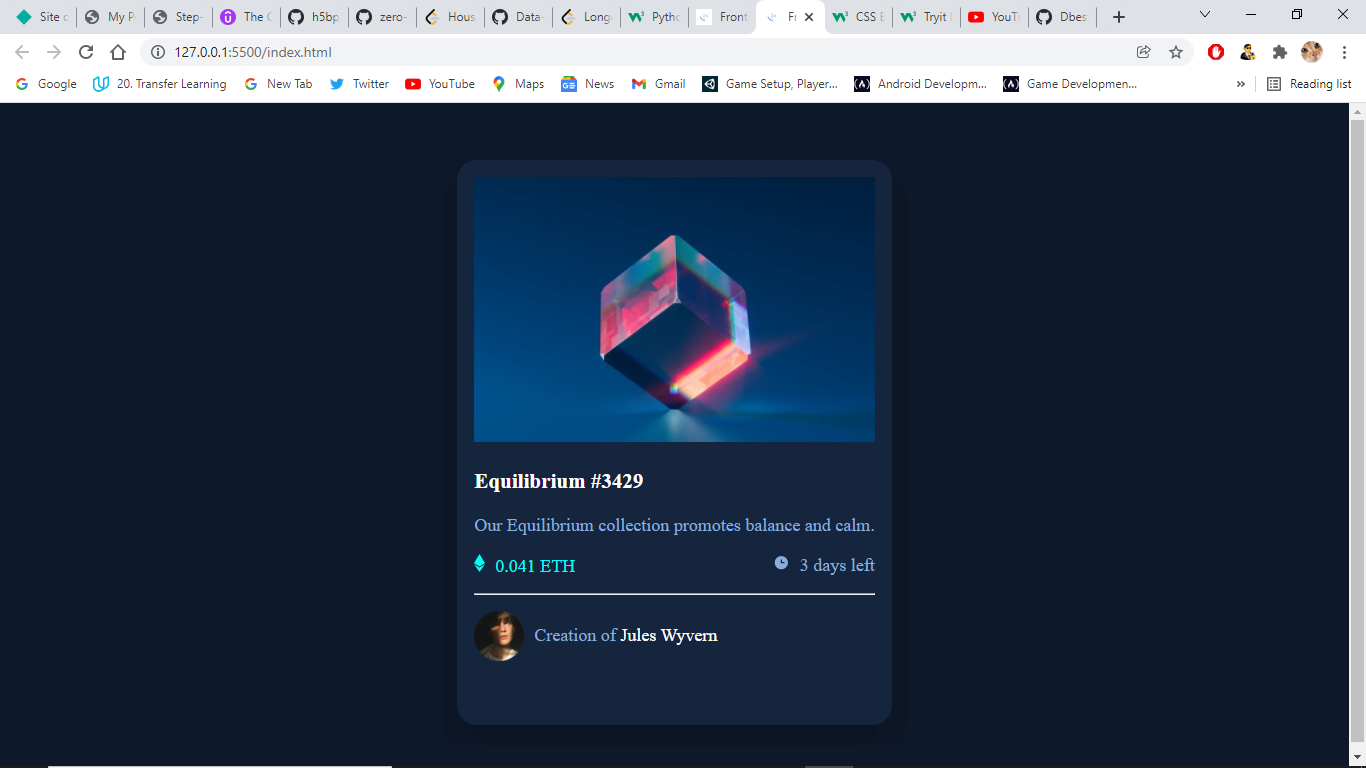
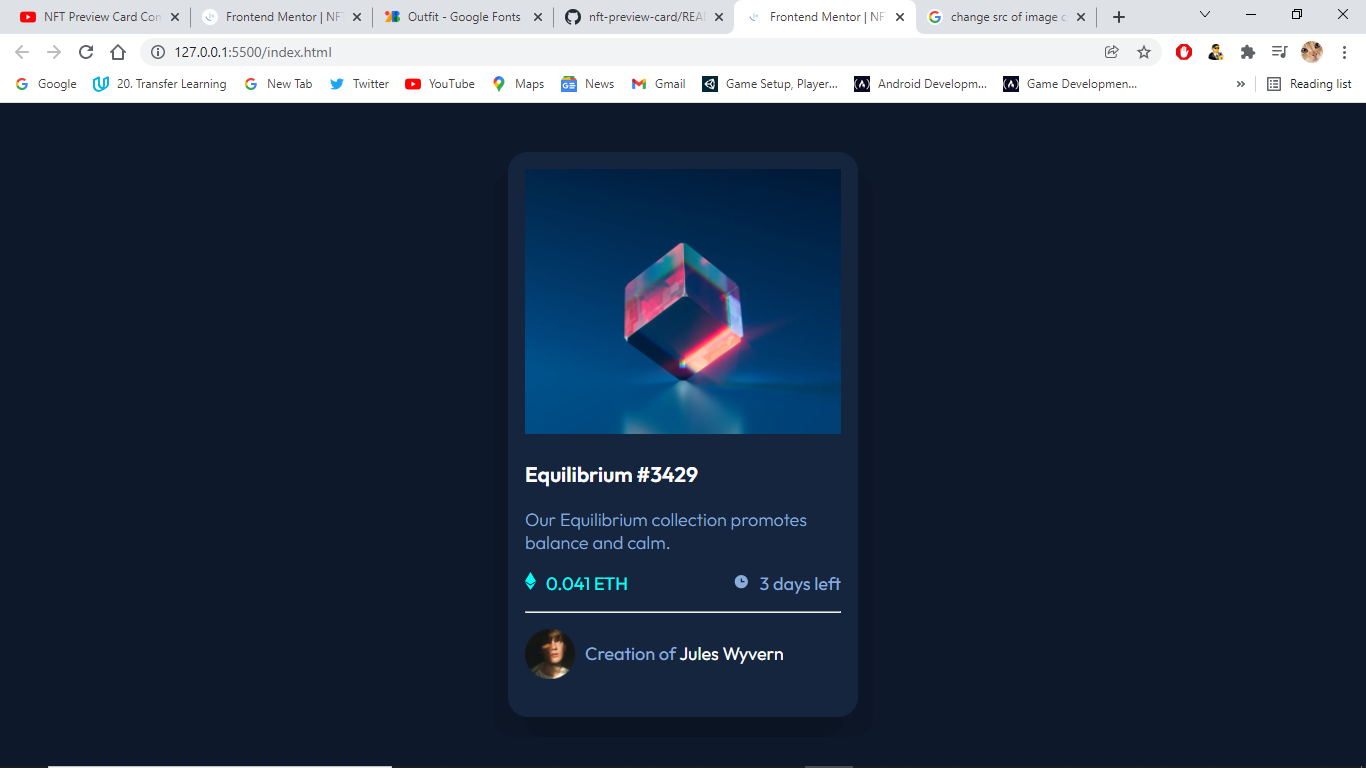
Change screenshot image

diff --git a/style-guide.md b/style-guide.md
@@ -1,0 +1,33 @@
+# Front-end Style Guide
+
+## Layout
+
+The designs were created to the following widths:
+
+- Mobile: 375px
+- Desktop: 1440px
+
+## Colors
+
+### Primary
+
+- Soft blue: hsl(215, 51%, 70%)
+- Cyan: hsl(178, 100%, 50%)
+
+### Neutral
+
+- Very dark blue (main BG): hsl(217, 54%, 11%)
+- Very dark blue (card BG): hsl(216, 50%, 16%)
+- Very dark blue (line): hsl(215, 32%, 27%)
+- White: hsl(0, 0%, 100%)
+
+## Typography
+
+### Body Copy
+
+- Font size (paragraph): 18px
+
+### Font
+
+- Family: [Outfit](https://fonts.google.com/specimen/Outfit)
+- Weights: 300, 400, 600
